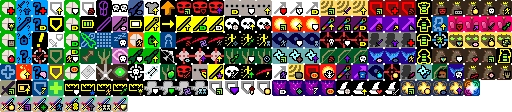
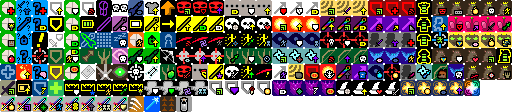
1.4: added placeholders for t3

Changed region(s): [[0.25, 0.8571, 0.375, 1.0]]

diff --git a/core/src/main/java/com/zrp200/rkpd2/actors/hero/Talent.java b/core/src/main/java/com/zrp200/rkpd2/actors/hero/Talent.java
@@ -80,7 +80,7 @@ public enum Talent {
 	//Warrior T2
 	IRON_STOMACH(4), RESTORED_WILLPOWER(5), RUNIC_TRANSFERENCE(6), LETHAL_MOMENTUM(7), IMPROVISED_PROJECTILES(8), BIG_RUSH(67),
 	//Warrior T3
-	HOLD_FAST(9, 3), STRONGMAN(10, 3),
+	HOLD_FAST(9, 3), STRONGMAN(10, 3), BEAR_PAW(200, 3),
 	//Berserker T3
 	ENDLESS_RAGE(11, 3), BERSERKING_STAMINA(12, 3), ENRAGED_CATALYST(13, 3), ONE_MAN_ARMY(139,3),
 	//Gladiator T3
@@ -99,7 +99,7 @@ public enum Talent {
 	//Mage T2
 	ENERGIZING_MEAL_II(36), ENERGIZING_UPGRADE(37), WAND_PRESERVATION(38), ARCANE_VISION(39), SHIELD_BATTERY(40), PYROMANIAC(129),
 	//Mage T3
-	EMPOWERING_SCROLLS(41, 3), ALLY_WARP(42, 3),
+	EMPOWERING_SCROLLS(41, 3), ALLY_WARP(42, 3), CRYONIC_SPELL(201, 3),
 	//Battlemage T3
 	EMPOWERED_STRIKE(43, 3), MYSTICAL_CHARGE(44, 3), EXCESS_CHARGE(45, 3), SORCERY(141,3),
 	//Warlock T3
@@ -138,7 +138,7 @@ public enum Talent {
 	//Rogue T2
 	MYSTICAL_MEAL(68), MYSTICAL_UPGRADE(69), WIDE_SEARCH(70), SILENT_STEPS(71), ROGUES_FORESIGHT(72), EFFICIENT_SHADOWS(59),
 	//Rogue T3
-	ENHANCED_RINGS(73, 3), LIGHT_CLOAK(74, 3),
+	ENHANCED_RINGS(73, 3), LIGHT_CLOAK(74, 3), TRAPPER_MASTERY(202, 3),
 	//Assassin T3
 	ENHANCED_LETHALITY(75, 3), ASSASSINS_REACH(76, 3), BOUNTY_HUNTER(77, 3), LETHAL_MOMENTUM_2(144,3),
 	//Freerunner T3
@@ -157,7 +157,7 @@ public enum Talent {
 	//Huntress T2
 	INVIGORATING_MEAL(132), RESTORED_NATURE(101), REJUVENATING_STEPS(102), HEIGHTENED_SENSES(103), DURABLE_PROJECTILES(104), SCOURGING_THE_UNIVERSE(91),
 	//Huntress T3
-	POINT_BLANK(105, 3), SEER_SHOT(106, 3),
+	POINT_BLANK(105, 3), SEER_SHOT(106, 3), AUTO_RELOAD(202, 3),
 	//Sniper T3
 	FARSIGHT(107, 3), SHARED_ENCHANTMENT(108, 3), SHARED_UPGRADES(109, 3), MULTISHOT(137,3) {{aliases = new String[]{"RANGER"};}},
 	//Warden T3
@@ -810,16 +810,16 @@ public enum Talent {
 		//tier 3
 		switch (cls){
 			case WARRIOR: default:
-				Collections.addAll(tierTalents, HOLD_FAST, STRONGMAN);
+				Collections.addAll(tierTalents, HOLD_FAST, STRONGMAN, BEAR_PAW);
 				break;
 			case MAGE:
-				Collections.addAll(tierTalents, EMPOWERING_SCROLLS, ALLY_WARP);
+				Collections.addAll(tierTalents, EMPOWERING_SCROLLS, ALLY_WARP, CRYONIC_SPELL);
 				break;
 			case ROGUE:
-				Collections.addAll(tierTalents, ENHANCED_RINGS, LIGHT_CLOAK);
+				Collections.addAll(tierTalents, ENHANCED_RINGS, LIGHT_CLOAK, TRAPPER_MASTERY);
 				break;
 			case HUNTRESS:
-				Collections.addAll(tierTalents, POINT_BLANK, SEER_SHOT);
+				Collections.addAll(tierTalents, POINT_BLANK, SEER_SHOT, AUTO_RELOAD);
 				break;
 			case RAT_KING: break; // no unique talents... :(
 		}
